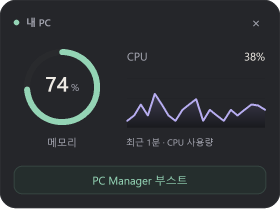
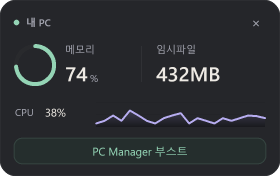
docs: describe compact PC card and temporary files in 0.8.7

diff --git a/README.md b/README.md
@@ -24,14 +24,20 @@
 *그래프와 수치는 테스트 데이터로 만든 화면 예시입니다.*
 
 - **켜고 끄기**: 설정 창 또는 트레이 메뉴의 `캐릭터 표시`, `PC 상태 카드`를 각각 선택합니다. 카드의 ×를 누르면 카드만 꺼지고, 트레이에서 다시 켤 수 있습니다.
-- **크기**: `PC 카드 크기`에서 작게(기본)·보통·크게를 고릅니다. 캐릭터 크기와 별도로 적용됩니다.
-- **이동·상세 수치**: 카드 전체를 잡아 옮기고, 메모리 링에 마우스를 올리면 사용 중인 용량과 전체 RAM을 확인합니다.
+- **크기·이동**: `PC 카드 크기`에서 작게(기본)·보통·크게를 고릅니다. 캐릭터 크기와 별도로 적용되며 카드 전체를 잡아 옮길 수 있습니다. 작은 메모리 링과 임시파일 수치를 나란히, CPU 그래프와 부스트 버튼을 아래에 배치했습니다.
+- **임시파일**: PC Manager 홈 화면에 표시되는 임시파일 용량을 30초마다 읽습니다. 앱이 꺼져 있거나 홈 화면을 읽을 수 없으면 `확인 불가`로 표시합니다. 부스트 요청 시 이전 값을 비우고 응답 5초 뒤 다시 확인합니다.
 - **PC Manager 부스트·열기·설치 안내**: Microsoft PC Manager(Store판)가 설치돼 있으면 카드 하단에서 **PC Manager 부스트**를 누릅니다. 앱이 꺼져 있거나 버튼이 준비되지 않았다면 알림의 **PC Manager 열기**를 누르고 홈 화면이 로드된 뒤 몽글에서 부스트를 다시 눌러 주세요. 초기 설정이 표시되면 먼저 완료해 주세요. 홈 화면을 준비한 뒤 X로 닫고도 동작한 사례를 확인했지만, 앱 종료나 화면 상태 변화로 버튼을 찾지 못하면 다시 열기가 필요할 수 있습니다. 부스트 요청 자체는 창을 열지 않으며, 열기 버튼을 선택했을 때만 창을 엽니다. 미설치 시 **PC Manager 설치**가 공식 Microsoft Store 페이지를 열고, 카드 활성화 중 30초 간격으로 설치 상태를 다시 확인합니다. 몽글이 직접 파일을 삭제하거나 메모리를 정리하지 않습니다.
 - **기록과 정리**: 그래프는 최근 CPU 측정값 최대 21개만 메모리에 보관합니다. 카드 종료 시 버리며, 임시 파일 삭제나 메모리 정리 기능은 포함하지 않습니다.
 
 OpenCodex 다중 계정은 사용량 창에서 각각 구분됩니다. 계정 정보 표시를 끄면 이메일 대신 계정 번호가 보이고, 갱신되지 않은 한도는 `갱신 대기`로 표시합니다. 활동 로그에서는 같은 작업의 서브에이전트를 한곳에 모아 볼 수 있으며, 세션 표시를 끄면 시간순으로 돌아옵니다.
 
 ## 최근 업데이트
+
+### 0.8.7
+
+- **메모리 옆 임시파일 용량** — PC Manager 홈 화면의 임시파일 수치를 30초마다 표시합니다. 값을 읽지 못하면 0으로 표시하지 않고 `확인 불가`로 안내합니다. 몽글이 직접 디스크를 검사하거나 파일을 삭제하지 않습니다.
+- **작고 정돈된 내 PC 카드** — 메모리·임시파일을 한 줄에 정렬하고, CPU는 얇은 그래프로 표시합니다. 기본 크기는 224×141이며 기존 PC Manager 부스트 버튼과 크기·위치 설정을 유지합니다.
+- **부스트 뒤 수치 갱신** — 부스트 요청 시 이전 임시파일 수치를 비우고 응답 5초 뒤 다시 읽습니다. 요청 전에 시작된 조회 결과가 나중에 도착해도 이전 수치를 되살리지 않습니다.
 
 ### 0.8.6
 
